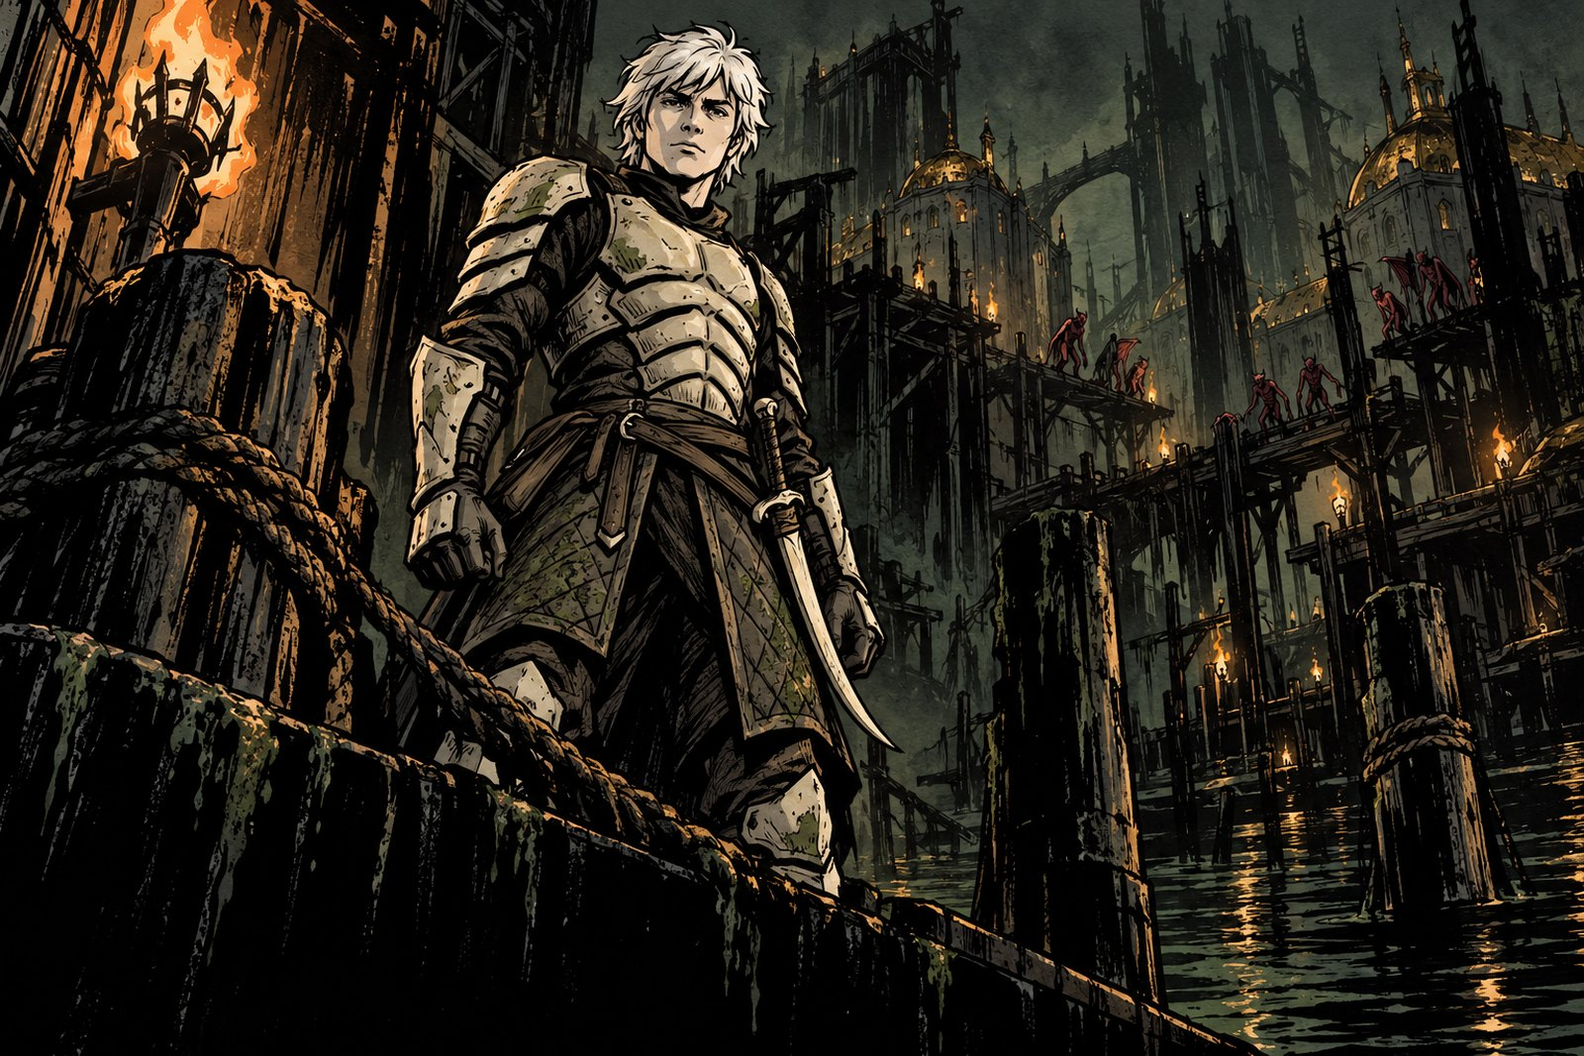
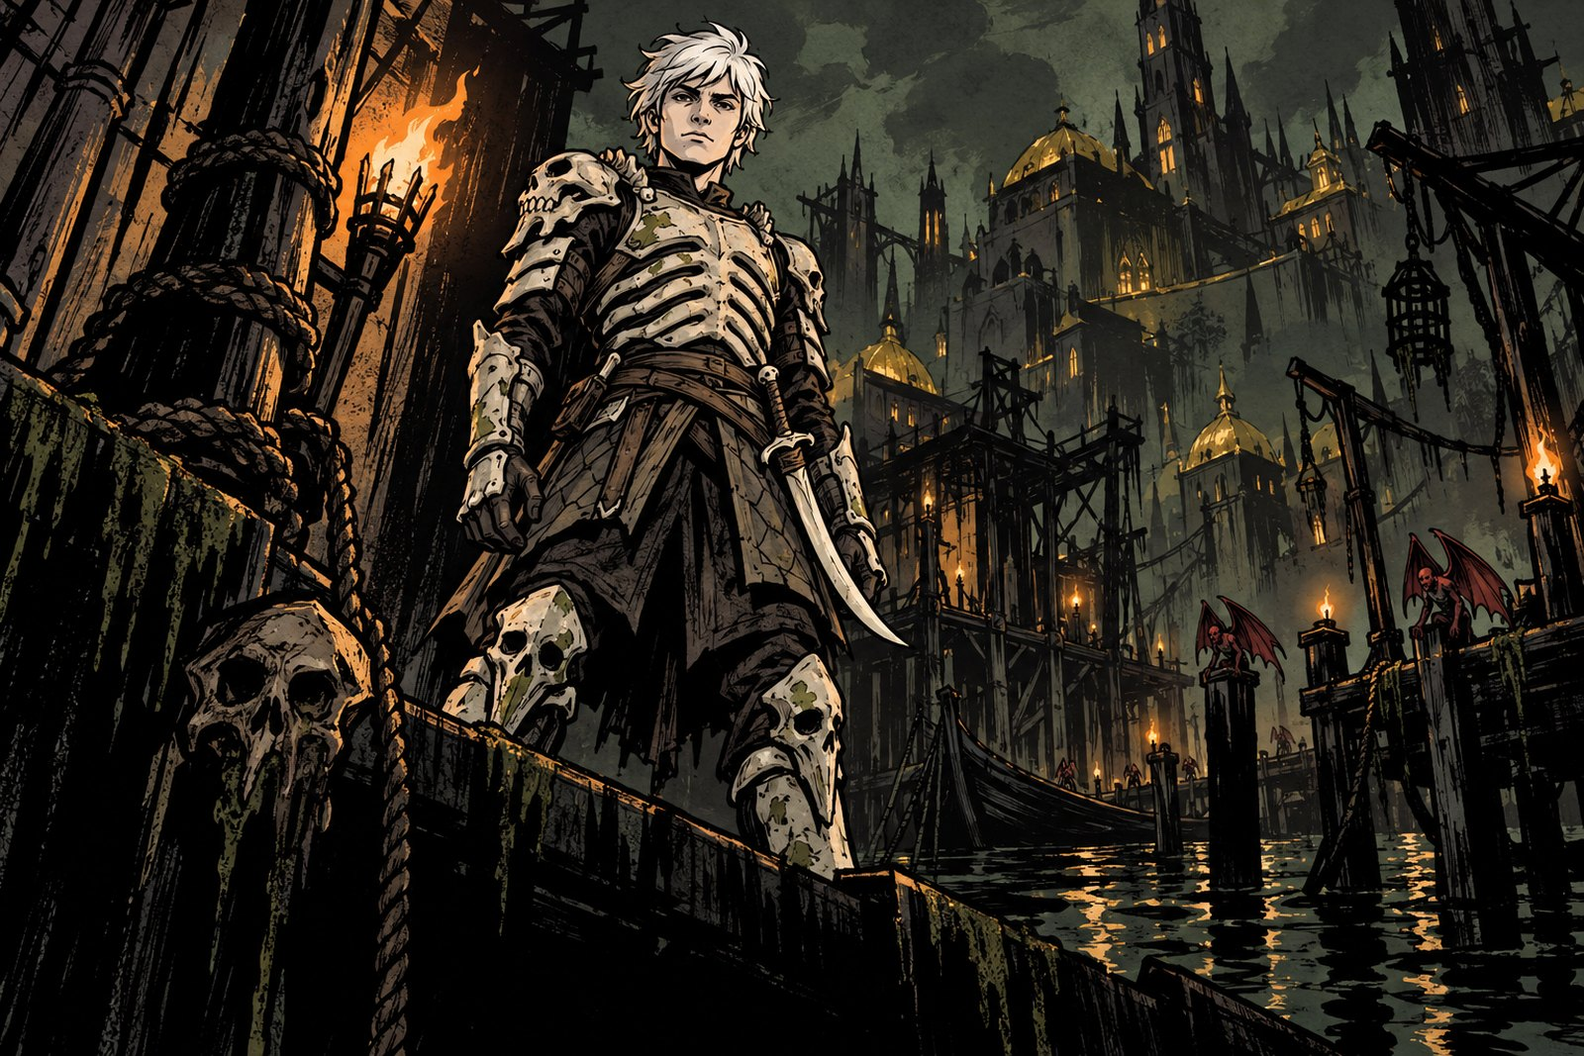
WIP story I2: second-layer telling fixes, 3 repaints, walk objective
Words: keeping-feeds-it bridge, cellars+churchyard, burning stub, roost,
keeping-vs-minding, steps anchor, Flayer leash, taunts run ahead, art
spends, oil pressing, open eyes, spent coin, flame answers, cask x2,
Abomination named, Kurast ground, release, oil-out + daughters die,
daughters catch. Repaints: travincal-before dying lamp, docks-before
and drowned_city-after bone necromancer. Walk: client objective line,
breach blurbs, 20-kind sheet.

diff --git a/hellward/story.py b/hellward/story.py
@@ -75,7 +75,7 @@ STORIES: dict[str, Story] = {s.key: s for s in (
         "torches, red southern knives among them, and behind them walk the village dead, still in their Sunday clothes.",
         "Akara finds you at the well. From her candle she lights your lantern — one flame of the lamp's own. "
         "\"The old towers answer whoever keeps the lamp,\" she says. \"Wake what sleeps, and raise where nothing sleeps. "
-        "Keep it tonight. Ask me your questions at dawn.\"",
+        "Keep it tonight, and keeping will feed it. Ask me your questions at dawn.\"",
         refs=("you",))),
     Story("tristram/after", 1, _page(
         "tristram-after",
@@ -84,7 +84,8 @@ STORIES: dict[str, Story] = {s.key: s for s in (
         "Dawn came grey over the ashes. Akara turned the dead shaman's charms over, one by one, and held up a finger "
         "bone carved with the cathedral's seal. \"You asked at the well,\" she said. \"Here is your answer. It was a "
         "priest's gift.",
-        "The Fallen had not come on their own. Someone had sent them up from the churchyard.",
+        "The Fallen had not climbed on their own, and the dead had not walked. Someone had sent them up — through the "
+        "cellars, out of the churchyard.",
         refs=("seal",))),
     Story("graveyard/before", 1, _page(
         "graveyard-before",
@@ -116,7 +117,7 @@ STORIES: dict[str, Story] = {s.key: s for s in (
         "cathedral-after",
         "Behind a stone altar, a narrow stair goes down into darkness; on its first step, a guttering candle stub.",
         "The lamp still burned. Beneath the altar a stair you had never seen went down into cold air, and on the altar "
-        "above it stood a candle stub, still warm.",
+        "above it stood a candle stub, still burning.",
         "He had gone down ahead of you, unhurried, the way a priest goes down to a funeral.")),
     Story("catacombs/before", 1, _page(
         "catacombs-before",
@@ -138,10 +139,10 @@ STORIES: dict[str, Story] = {s.key: s for s in (
         "caves-before",
         "A vast cavern lit red from below by a lava lake; stone gargoyles hang from the vault like bats; at the edge "
         "of the light, Akara turns back with her candle.",
-        "The catacombs open onto a cavern lit from below. Lava crawls across its floor, and gargoyles hang in the "
+        "The catacombs open onto a cavern lit from below. Lava crawls across its floor, and gargoyles roost in the "
         "vault, waiting for the heat to lift them.",
-        "Akara will go no further. \"Someone must keep the lamp while you are below,\" she says. \"Past the lava is "
-        "the door the saints built on, and he is waiting at it.\"",
+        "Akara will go no further. \"The keeping is yours tonight, but someone must mind the lamp while you are below,\" "
+        "she says. \"Past the lava is the door the saints built on, and he is waiting at it.\"",
         refs=("akara",))),
     Story("caves/after", 1, _page(
         "caves-after",
@@ -150,7 +151,8 @@ STORIES: dict[str, Story] = {s.key: s for s in (
         "At the lava's edge the rock had been cut into steps, and the steps were worn into hollows by one pair of "
         "feet.",
         "Every night for nine hundred years the keeper came down here and cast his bones before the door, and every "
-        "night they showed the lamp going out. Somewhere in those years he stopped keeping it, and began to wait.")),
+        "night they showed the lamp going out. Somewhere in those years he stopped keeping it, and began to wait — as "
+        "if he waited on these steps still.")),
     Story("hells_gate/before", 1, _page(
         "hells_gate-before",
         "A colossal door in the rock, firmly shut except for a single hand's-width crack; hellfire blazing through that "
@@ -181,27 +183,30 @@ STORIES: dict[str, Story] = {s.key: s for s in (
              "A night harbour; far out, a ship with black sails leaves under the moon. On the quay, seen from behind, "
              "the keeper holds up the lantern, and Akara stands beside him with her candle.",
              ("A ship left the coast last night with one passenger and no crew, sailing east.",
-              "\"Go,\" said Akara. \"I will keep this one. Take its flame, and the old towers will know you.\" You held "
-              "the lantern to the lamp until its flame stood straight, and went down to the sea, where a boat waited."),
+              "\"Go,\" said Akara. \"I will keep this one. Take its flame, and the old towers will know you — Kurast is "
+              "old temple ground, and the saints' works sleep there too.\" You held the lantern to the lamp until its "
+              "flame stood straight, and went down to the sea, where a boat waited."),
              ("you", "akara")),
     )),
     # -- Act II, The Drowned Temples ----------------------------------------------------------------
     Story("docks/before", 2, _page(
         "docks-before",
-        "On a harbour wall stands the necromancer, looking down at the viewer, his armour yellowed bone: a ribbed "
-        "cuirass, knuckle-ridged pauldrons, matte and porous, clearly bone and never metal; on the far piers behind him, "
-        "tiny distant red Flayers wait; a swamp city of gold roofs and rotting wooden piers rises in tiers.",
+        "On a harbour wall stands the necromancer, looking down at the viewer, his armour grown from the skeleton "
+        "itself: a ribcage cuirass, spine-ridge pauldrons, skull motifs at shoulder and knee, matte yellowed bone, "
+        "nothing plate-like anywhere; on the far piers behind him, tiny distant red Flayers wait; a swamp city of gold "
+        "roofs and rotting wooden piers rises in tiers.",
         "Kurast rises out of the swamp in tiers of gold and rotting wood. The harbour is empty of pilgrims. Along the "
-        "piers the Flayers are waiting, and their shaman is already singing.",
+        "piers the Flayers are waiting, lordless since Azazel fell, and their shaman is already singing.",
         "A pale man in bone armour watches you land. \"I am a priest of Rathma,\" he says. \"Your enemy stole our "
         "art. Let me lend it back to you as the Bone Altar.\"",
+        "His acolytes walk with every host, and his words run ahead of them.",
         refs=("necromancer",))),
     Story("docks/after", 2, _page(
         "docks-after",
         "The necromancer kneels on a wet pier among small dead jungle fiends, closing their eyes with two fingers.",
         "The shaman's song stopped. The necromancer knelt among the Flayers and closed their eyes. \"Twice his shaman "
         "raised them on the priest's stolen art,\" he said. \"Each time, fewer of them came back.",
-        "\"He is not raising an army. He is spending one.\"",
+        "\"He is not raising an army. He is spending one — and the stolen art spends with it.\"",
         "\"And his bones will never show him you. They show all that is settled — every stone, every tower, every "
         "demon. They cannot show the light itself.\"",
         refs=("necromancer",))),
@@ -221,6 +226,7 @@ STORIES: dict[str, Story] = {s.key: s for s in (
         "The grove held. Where the spiders fell, the oaks were already putting down roots.",
         "The eldest druid pointed east, to where the jungle turns to black water. \"He passed here three nights ago. "
         "The oaks remember the lamps being lit — and they do not like him.\"",
+        "Already the druid's folk were pressing oil from fallen oak. \"For the lamp that gutters,\" he said.",
         refs=("druid",))),
     Story("jungle/before", 2, _page(
         "jungle-before",
@@ -248,7 +254,8 @@ STORIES: dict[str, Story] = {s.key: s for s in (
         refs=())),
     Story("drowned_city/after", 2, _page(
         "drowned_city-after",
-        "A flooded shrine; the water glows warm red; the necromancer lifts wet fingers to his lips.",
+        "A flooded shrine; the water glows warm red; the necromancer lifts wet fingers to his lips, wearing ribcage "
+        "bone armour with skull motifs at shoulder and knee, matte yellowed bone, nothing plate-like.",
         "In a flooded shrine the water was warm and red. The necromancer tasted it and spat. \"Lamp oil,\" he said. "
         "\"The mother lamp's.",
         "\"He is not putting it out. He is draining it, a little each night, so the city will not notice until it is "
@@ -257,11 +264,13 @@ STORIES: dict[str, Story] = {s.key: s for s in (
     Story("travincal/before", 2, _page(
         "travincal-before",
         "A temple terrace at night; a row of elders in gold robes stands facing the viewer, each holding a violet curse "
-        "glowing in his hand; high above them hangs the mother lamp, dim.",
+        "glowing in his hand; high above them hangs the mother lamp, dying: its glass nearly black, only a thin red "
+        "ember line still burning inside. No candles, no other light.",
         "The High Council meets on the temple terrace under the mother lamp: a row of elders in gold, and every one of "
-        "them curses.",
-        "They have waited for you. The Bone Priest has told them how this night ends. He promised Azazel an hour too, "
-        "and Azazel is dust in a shut door.",
+        "them curses. They let him in with open eyes.",
+        "They have waited for you. The Bone Priest has told them how this night ends. He promised Azazel an hour, "
+        "and Azazel is dust in a shut door. His promises are spent coin.",
+        "The Council gave him the keeping of the lamp. But the old towers answer the flame, and his hands are empty.",
         refs=("mother_lamp",))),
     Story("travincal/after", 2, _page(
         "travincal-after",
@@ -271,14 +280,15 @@ STORIES: dict[str, Story] = {s.key: s for s in (
         "The last elder fell on the temple stairs. Above them the mother lamp hung dim and red, its oil almost gone. "
         "The temple doors swung shut by themselves.",
         "Behind them, on the temple floor, you could hear bones being cast, again and again.",
-        "Behind you, up the temple road, the eldest druid was coming with his flask of oil.",
+        "Behind you, up the temple road, the eldest druid was coming with his cask of oil.",
         refs=("mother_lamp",))),
     Story("temple/before", 2, _page(
         "temple-before",
         "A vast golden temple interior gone almost dark; the mother lamp hangs over the altar with its flame sunk to a "
         "last red ember, the great glass nearly black; beneath it the Bone Priest, grown huge, bones in his open hand, "
         "violet fire around him. No candles, no other light.",
-        "Under the mother lamp the Bone Priest waits, and for the first time he will fight you himself.",
+        "Under the mother lamp the Bone Priest waits, his last Abomination at the stair, and for the first time he "
+        "will fight you himself.",
         "\"Every night since Tristram I have cast these bones,\" he says. \"They show me every stone of this "
         "temple, every demon in it, every tower you will build. They have never shown me you. So I have come to "
         "look.\"",
@@ -289,25 +299,27 @@ STORIES: dict[str, Story] = {s.key: s for s in (
              "lantern standing beside a burning lamp.",
              ("The bones fell from his hand and scattered across the gold floor, and above them, for the first time, "
               "the vision held you: a shadow with a lantern, and the lamp still burning.",
-              "\"There you are,\" he said, and was dust."),
+              "\"There you are,\" he said, and was dust — nine hundred years, all at once."),
              ("you",), base="bones"),
         Page("act2-end-2",
              "A vast dark temple; the mother lamp hangs cold and black; the only light is the keeper's small red "
              "lantern, seen from behind.",
-             ("When he was dust, the mother lamp guttered and went out, and the temple was dark but for your "
-              "lantern — which burns on keeping, not oil.",),
+             ("The last of the oil burned out, and the mother lamp guttered and went out, and the temple was dark but "
+              "for your lantern — which burns on keeping, not oil. Across the sea, every daughter lamp went out with "
+              "her.",),
              ("you", "mother_lamp")),
         Page("act2-end-3",
              "The keeper holds the lantern up to the great lamp while the eldest druid pours oil from a wooden flask; "
              "the mother flame catches and rises gold, lighting the whole temple.",
              ("You held it up to the great lamp: Tristram's flame, lit from this one nine hundred years ago. The eldest "
-              "druid poured oil pressed from the grove's oaks, and the mother flame caught, and rose gold.",),
+              "druid poured oil from his wooden cask, pressed from the grove's oaks, and the mother flame caught, and "
+              "rose gold.",),
              ("you", "druid", "mother_lamp")),
         Page("act2-end-4",
              "Dawn through tall cathedral windows; the red lamp of Tristram burns straight; Akara looks up at it from "
              "below with her candle.",
-             ("Across the sea, in a cathedral built on a door to hell, Akara watched a small red flame stand straight "
-              "again.",
+             ("Across the sea, in a cathedral built on a door to hell, Akara watched a small red flame catch, and stand "
+              "straight again.",
               "Keep it burning."),
              ("akara", "lamp")),
     )),

diff --git a/tools/llm_story.py b/tools/llm_story.py
@@ -188,6 +188,8 @@ def battle_beat(location: Location, *, first: bool = False) -> Beat:
     new = list(dict.fromkeys(group.kind for wave in waves for group in wave.groups
                                if born[group.kind] == location.key))  # kinds walking here first
     body = [f"{len(waves)} waves, {bodies} bodies"]
+    # What the client tells the player the fight is for (intro.gd title card, main.gd announce).
+    body.append("objective: Hold the sanctuary until the last wave breaks. (the client's title card)")
     body += [_wave_mix(location, i) for i in range(len(waves))]
     if new:
         marked = [f"{MONSTERS[kind].name} (stand-in)" if not modelled(kind)
@@ -198,6 +200,7 @@ def battle_beat(location: Location, *, first: bool = False) -> Beat:
         pack = ", ".join(f"{MONSTERS[g.kind].name} ×{g.count}" for g in spec.pack)
         body.append(f"breach after w{spec.after_wave + 1}: {spec.name} — {spec.elite_name} "
                     f"({MONSTERS[spec.elite.kind].name}) + {pack}")
+        body.append(f"sealed entrance: {spec.blurb}")  # the briefing screen shows name and blurb
     body.append(f"music: battle_{location.key} — {DUNGEONS[location.key].blurb} (playing since the briefing)")
     walking = list(dict.fromkeys(g.kind for g in waves[-1].groups if MONSTERS[g.kind].boss))
     for kind in walking:

diff --git a/tests/test_llm_story.py b/tests/test_llm_story.py
@@ -125,8 +125,16 @@ def test_fights_carry_the_breach_where_one_is_offered():
         if location in BREACHES:
             spec = BREACHES[location]
             assert f"breach after w{spec.after_wave + 1}: {spec.name}" in body, location
+            assert spec.blurb in body, location
         else:
             assert "breach after" not in body, location
+
+
+def test_fights_state_the_client_objective():
+    beats = {beat.key: beat for beat in walk.beats()}
+    for location in ORDER:
+        body = "\n".join(beats[f"{location}/battle"].body)
+        assert "objective: Hold the sanctuary until the last wave breaks." in body, location
 
 
 def test_fights_carry_the_music_and_the_boss_break_in():

diff --git a/docs/story-canon.md b/docs/story-canon.md
@@ -21,8 +21,12 @@ it goes out. [LAMP-2]
 **The lantern.** Akara lights the keeper's lantern from the lamp of Tristram at
 the well, on the first night. From then on the keeper carries the lamp's own
 flame into every fight. [LANT-1] Lamps burn oil; the lantern burns on the
-keeper's keeping. That is why it survives the mother lamp's going out, when
-every oil flame lit from her dies. [LANT-2]
+keeper's keeping. A flame given into keeping burns on keeping from that hour —
+oil cannot starve it afterwards. That is why it survives the mother lamp's
+going out, when every oil flame lit from her dies. [LANT-2]
+
+**The chain.** When the mother lamp goes out, every daughter dies with her;
+when she is relit, they catch again. The chain remakes itself. [MOTH-1]
 
 **The keeping.** The keeping passes from keeper to keeper, night by night;
 tonight it is yours. Akara can mind a lamp, but the old towers answer only the
@@ -85,9 +89,25 @@ flight east, and the draining of the mother lamp a little each night. [PRIEST-1]
 His tells: "your saints" (never "ours"), and "my lamp" (it was his charge; the
 saints were never his people). [PRIEST-2] His arc: certain, annoyed, curious,
 afraid, bargaining — and at the end, seeing the keeper at last, content to be
-dust. [PRIEST-3] The crown in every panel is his own doing: when he stopped
-keeping he crowned himself — keeper no longer, but king of what comes through.
-[CROWN-1]
+dust. [PRIEST-3] Seeing the keeper — the keeping truly held — releases him;
+nine hundred years catch up at once, and he is dust. [REL-1] The crown in
+every panel is his own doing: when he stopped keeping he crowned himself —
+keeper no longer, but king of what comes through. [CROWN-1]
+
+**His voice.** His taunts run ahead of every host, carried by his acolytes on
+the eve of battle; the briefings stage them as his voice. That is how he
+taunts fights he does not attend. [TAUNT-1]
+
+**The flame answers.** The towers answer the flame-bearer. The Council may
+give him the keeping of the lamp, but his hands are empty, and the old towers
+know it. [FLAME-1]
+
+**The leash.** Azazel was the Flayers' lord; dead lords hold no leash. The
+priest holds it now. [LEASH-1]
+
+**The elders.** On the terrace the curse-casters are the elders: "elders" in
+the Travincal words means the leaders the player fights, whatever their kinds.
+Accepted veil — the white-and-gold models carry it. [ELDER-1]
 
 **The Council.** The High Council kept the mother lamp carelessly for years; its
 oil was already low when his letter came. The Zakarum church has fallen — its
@@ -232,31 +252,59 @@ text — verify on a full walk with panels open.)*
 
 ## Open questions
 
-1. Flayers in Tristram waves 3–4: TEASE-1 says bought southern knives. Needs
-   one acknowledging clause in tristram-before or its blurb — or a roster move.
-2. "Ask me your questions at dawn" (tristram-before): answered by the finger
-   bone + tally wall (tristram-after, graveyard-after). Confirm the telling
-   earns it, or rephrase.
-3. Candle on the first step (words) vs. on the altar (panel): reword (cheap,
-   recommended) or repaint?
-4. Churchyard gate: verified on the panel — the iron gates stand ajar, and
-   neither blind watcher flagged it. Dropped; the words stand.
-5. Does the intro's "you wake what the old house still holds" need a
-   raise-sibling for TOWER-1? (Voice/video regen costs; prefer a telling fix
-   in tristram-before over touching the prologue.)
-6. Repaints recommended (plot-critical, words cannot yield): hells_gate-before
-   door barely open; travincal-after + temple-before mother lamp dim;
-   catacombs-after lamp cold; docks necromancer bone armour. Approval + credit
-   needed; words stay as written until painted.
-7. Travincal bargain: mark it a lie in the telling (he knows the mother lamp's
-   death takes Tristram's)? One clause in travincal-before or the taunt.
-8. **CLOSED by this canon:** orb fiction (ORB-1/LANT-1), wake-vs-build
-   (TOWER-1/TOWER-2), priest's motive (PRIEST-1), why the bones never show the
-   keeper (BONES-1: they cannot show the light itself), the lantern's survival
-   (LANT-2: it burns on keeping, not oil), why the keeper is needed
-   (KEEPER-2), his 900 years (KEEP-1), his crown (CROWN-1), the Council's
-   neglect and open service (COUNCIL-1), nearer door first (PLAN-1), the
-   keeper's dead (DEAD-2), breaches (BREACH-1).
+Iteration 1 closed 1–7 (applied + committed 05cb5af; re-check verified the
+core lands). What follows is iteration 2, from the re-check reports (R1 = the
+rule the telling must still earn, with its canon tag).
+
+1. LANT-2 bridge: the lantern is lit as oil-flame but burns oil-less. Needs
+   the transition stated (Akara: keeping feeds it from that hour). [R1/LANT-2]
+2. MOTH-1 plot: the daughters' death and rekindling happen off-page. Needs
+   one dying clause (act2-end-2) and one catching clause (act2-end-4).
+   [R1/MOTH-1]
+3. REL-1: his death needs its cause stated (release: 900 years at once).
+   [R1/REL-1]
+4. FLAME-1: the towers answer the flame, his hands are empty — needs one
+   telling line (travincal-before). [R1/FLAME-1]
+5. LEASH-1: Azazel was the Flayers' lord; the priest holds the leash now.
+   Needs one clause (docks-before). [R1/LEASH-1]
+6. TAUNT-1: taunts run ahead by acolyte on the eve of battle. Needs one line
+   (docks-before). [R1/TAUNT-1]
+7. Cellars vs churchyard (tristram-after): genuine contradiction, needs the
+   two-origin fix. [R1]
+8. Travincal-before: drop "too", mark the bargain spent coin, note the
+   Council's open eyes (COUNCIL-1). [R1]
+9. Candle lit vs "still warm" (cathedral-after): reword to "still burning".
+   [R1]
+10. Caves-after figure unanchored: needs the priest-in-memory clause. [R1]
+11. Spider_forest-after still weakest (both re-checkers): needs the
+    oil-pressing turn (also foreshadows the finale's oil). [R1]
+12. Docks-before armour still reads plate (re-checker B): retry repaint with
+    skeletal shapes; drowned_city-after needs the same for design consistency.
+    [R1]
+13. Travincal-before lamp bright though drained for nights: repaint sickly.
+    [R1]
+14. Flask vs keg (act2-end-3 panel shows a cask): reword both beats to "cask".
+    [R1]
+15. Abomination walks temple w4 wordless: needs one naming clause
+    (temple-before). [R1]
+16. Three single-clause earns: keeping-vs-minding (caves-before, KEEPER-2);
+    Kurast's old temple ground (act1-end-3, TOWER-2); the stolen art spends
+    with the army (docks-after, DEAD-1). [R1]
+17. **Accepted, no telling change:** keeper's origin blank (deliberate,
+    KEEPER-1); "my lamp" first-read (resolves at hells_gate); elders veil
+    (ELDER-1); boat off-frame (moored hulls at act1-end-3's right edge);
+    Azazel's body behind the shut door; gargoyles "hang"→"roost" (trivial,
+    batched); necromancer's thin past (his payoff is the bones' rule);
+    prologue skeletons (both sides raise dead); Blood Bat's small model.
+18. **CLOSED by this canon:** orb fiction (ORB-1/LANT-1), wake-vs-build
+    (TOWER-1/TOWER-2), priest's motive (PRIEST-1), why the bones never show
+    the keeper (BONES-1), the lantern's survival (LANT-2), the chain
+    (MOTH-1), his release (REL-1), his voice (TAUNT-1), the flame answers
+    (FLAME-1), the leash (LEASH-1), the elders (ELDER-1), why the keeper is
+    needed (KEEPER-2), his 900 years (KEEP-1), his crown (CROWN-1), the
+    Council's neglect and open service (COUNCIL-1), nearer door first
+    (PLAN-1), the keeper's dead (DEAD-2), breaches (BREACH-1), gold/mana/gates
+    (COIN-1/GATE-1).
 
 ## Review principles
 
